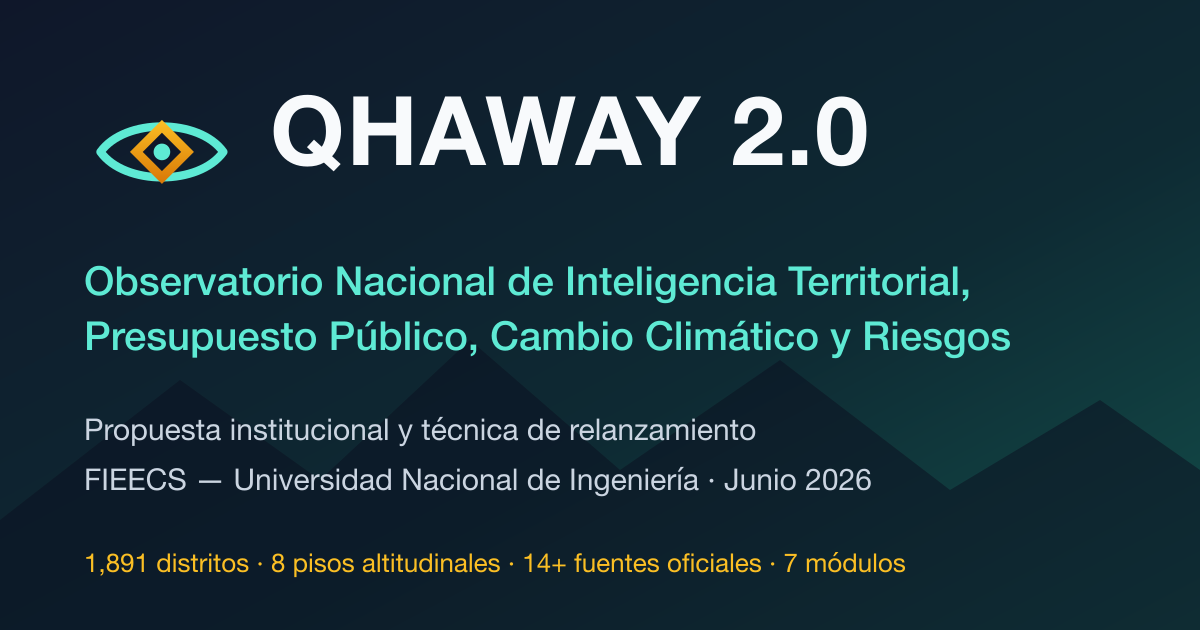
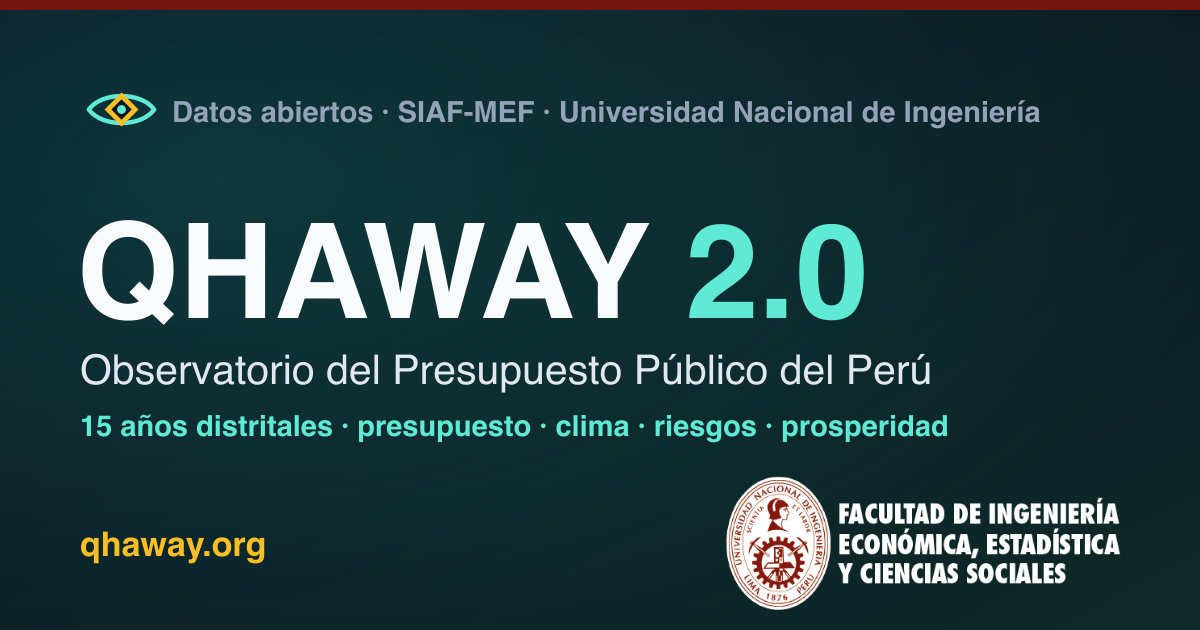
feat(og+clima): OG con identidad FIEECS-UNI (sello UNI, franja granate) + URLs OG a qhaway.org; clima territorial completo 15 años (2012-2026, 196 pares programa×año)

diff --git a/index.html b/index.html
@@ -12,15 +12,15 @@
     <meta property="og:site_name" content="QHAWAY 2.0" />
     <meta property="og:title" content="QHAWAY 2.0 — Observatorio Territorial y de Presupuesto Público del Perú" />
     <meta property="og:description" content="Presupuesto público distrital (SIAF-MEF), pisos altitudinales, riesgos territoriales e Índice de Prosperidad Territorial. Datos abiertos, sin login." />
-    <meta property="og:url" content="https://unimauro.github.io/qhaway-dashboard/" />
-    <meta property="og:image" content="https://unimauro.github.io/qhaway-dashboard/og.png" />
+    <meta property="og:url" content="https://qhaway.org/" />
+    <meta property="og:image" content="https://qhaway.org/og.png" />
     <meta property="og:image:width" content="1200" />
     <meta property="og:image:height" content="630" />
     <meta property="og:locale" content="es_PE" />
     <meta name="twitter:card" content="summary_large_image" />
     <meta name="twitter:title" content="QHAWAY 2.0 — Observatorio Territorial del Perú" />
     <meta name="twitter:description" content="Presupuesto público distrital, pisos altitudinales, riesgos e IPT. Datos abiertos del SIAF-MEF." />
-    <meta name="twitter:image" content="https://unimauro.github.io/qhaway-dashboard/og.png" />
+    <meta name="twitter:image" content="https://qhaway.org/og.png" />
   </head>
   <body>
     <div id="root"></div>